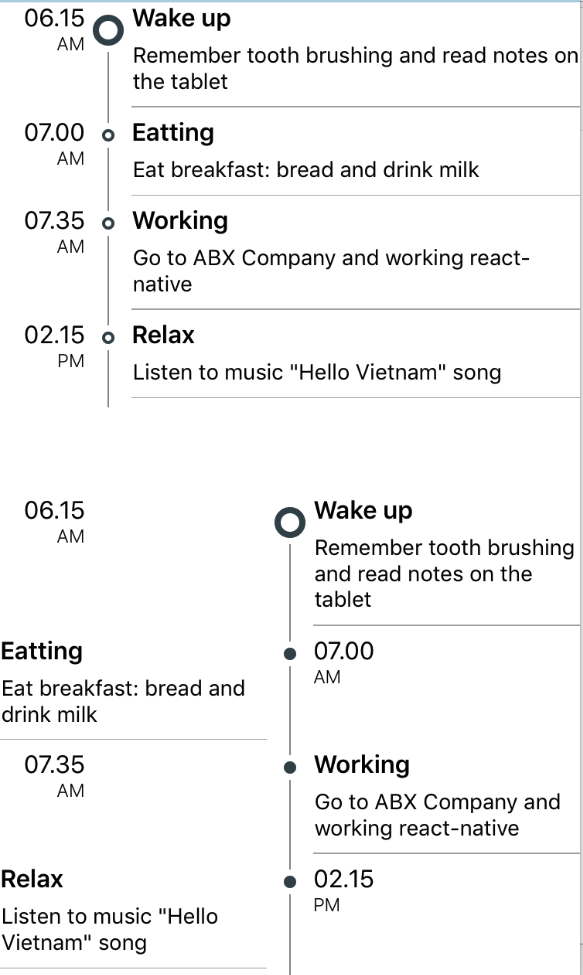
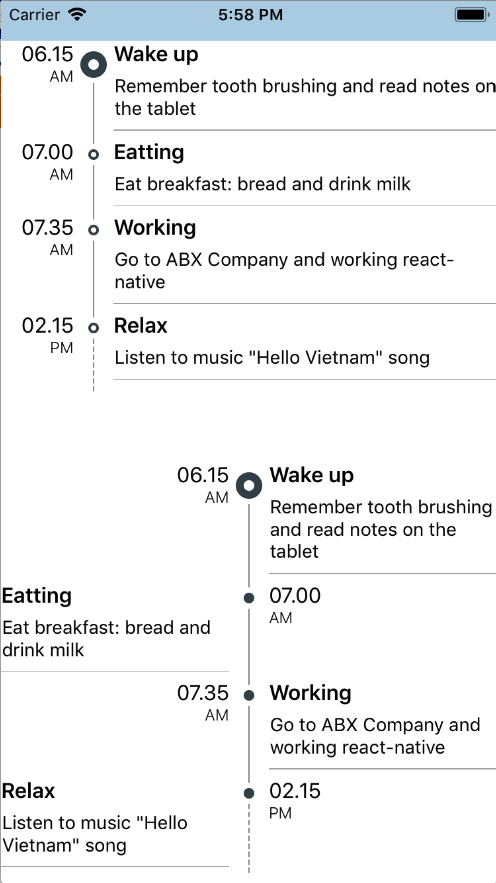
Update lib

diff --git a/README.md b/README.md
@@ -189,11 +189,14 @@ This package is used FlatList, therefore you can override all the props at [this
 |**`renderTimeBottom`**| Render Component Below Time| function |`null`|
 |**`lineWidth`**|With of line| number |`0.75`|
 |**`lineColor`**|Color of line| string |`#909090`|
+|**`dashLine`**|style of line: dash| bool |`false`|
+|**`renderSeperateTotal`**|vertical line in the bottom of event| bool |`false`|
 
 
 
 ### Todos
 - [x] Add icon for line event
+- [x] Add dash line 
 - [ ] Add dark, light theme
 - [ ] Add theme seperator
 
